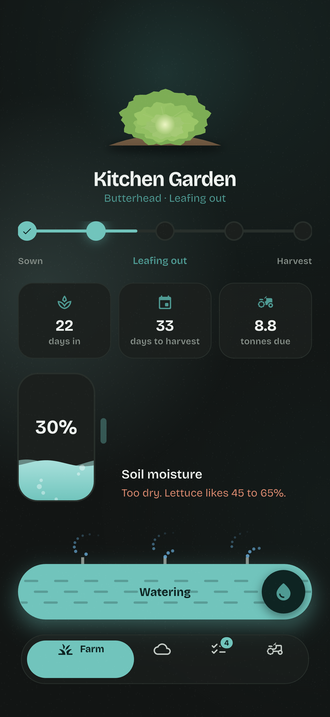
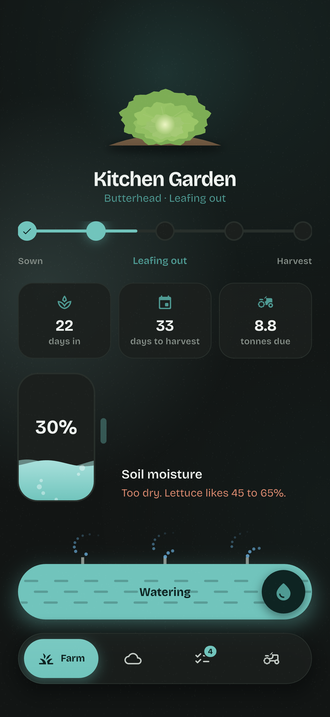
Tab bar: centred content, pill sized to its label, fade behind
The icon and label now sit in the middle of the pill, the pill is as
wide as its label needs, the picked icon springs, the bar is more solid
glass with a shadow, and lists fade out before they reach it.

diff --git a/lib/widgets/tab_bar.dart b/lib/widgets/tab_bar.dart
@@ -1,3 +1,4 @@
+import 'dart:math' as math;
 import 'dart:ui' as ui;
 
 import 'package:flutter/material.dart';
@@ -15,7 +16,9 @@ class TabItem {
 }
 
 /// A floating frosted bar. A pill of accent slides under the current tab,
-/// stretching as it travels.
+/// sized to fit its icon and label and stretching as it travels; the other
+/// tabs share what is left. Content scrolling underneath fades out before
+/// it reaches the bar.
 class GlassTabBar extends StatelessWidget {
   const GlassTabBar({
     super.key,
@@ -28,79 +31,104 @@ class GlassTabBar extends StatelessWidget {
   final int index;
   final ValueChanged<int> onTap;
 
+  static const _height = 68.0, _inset = 7.0, _icon = 23.0, _gap = 8.0, _pad = 18.0;
+
   @override
   Widget build(BuildContext context) {
     final p = context.palette;
-    return Padding(
-      padding: EdgeInsets.fromLTRB(
-        28,
-        0,
-        28,
-        MediaQuery.paddingOf(context).bottom + 10,
+    final label = Theme.of(context).textTheme.labelMedium!.copyWith(fontWeight: FontWeight.w700);
+    final scaler = MediaQuery.textScalerOf(context);
+    final bottom = MediaQuery.paddingOf(context).bottom;
+    // How wide each tab's pill needs to be to show its icon and label.
+    final needs = [
+      for (final item in items)
+        _icon + _gap + _pad * 2 + (TextPainter(text: TextSpan(text: item.label, style: label), textDirection: TextDirection.ltr, textScaler: scaler, maxLines: 1)..layout()).width,
+    ];
+
+    return DecoratedBox(
+      // Lists fade into the paper before they reach the bar.
+      decoration: BoxDecoration(
+        gradient: LinearGradient(
+          begin: Alignment.topCenter,
+          end: Alignment.bottomCenter,
+          colors: [p.paper.withValues(alpha: 0), p.paper.withValues(alpha: 0.85), p.paper],
+          stops: const [0, 0.45, 1],
+        ),
       ),
-      child: ClipRRect(
-        borderRadius: BorderRadius.circular(32),
-        child: BackdropFilter(
-          filter: ui.ImageFilter.blur(sigmaX: 22, sigmaY: 22),
-          child: Container(
-            height: 66,
-            decoration: BoxDecoration(
-              color: p.card.withValues(alpha: 0.72),
-              borderRadius: BorderRadius.circular(32),
-              border: Border.all(color: p.line),
-            ),
-            padding: const EdgeInsets.all(7),
-            child: LayoutBuilder(
-              builder: (context, box) => TweenAnimationBuilder<double>(
-                tween: Tween(end: index.toDouble()),
-                duration: Motion.medium,
-                curve: Motion.spring,
-                builder: (_, v, _) {
-                  // The active tab widens to fit its label, the rest share
-                  // what is left; widths follow the pill as it slides.
-                  final weights = [for (var i = 0; i < items.length; i++) 1 + 0.9 * (1 - (v - i).abs()).clamp(0.0, 1.0)];
-                  final sum = weights.fold(0.0, (a, b) => a + b);
-                  final widths = [for (final x in weights) box.maxWidth * x / sum];
-                  final k = v.floor().clamp(0, items.length - 1);
-                  final f = v - k;
-                  var left = 0.0;
-                  for (var i = 0; i < k; i++) {
-                    left += widths[i];
-                  }
-                  left += f * widths[k];
-                  final width = k + 1 < items.length ? widths[k] + (widths[k + 1] - widths[k]) * f : widths[k];
-                  // Stretch while moving, by how far from a whole tab it is.
-                  final stretch = 1 - ((v - v.round()).abs() * 2 - 1).abs();
-                  return Stack(
-                    children: [
-                      Positioned(
-                        left: left - stretch * 8,
-                        width: width + stretch * 16,
-                        top: 0,
-                        bottom: 0,
-                        child: Container(
-                          decoration: BoxDecoration(
-                            color: p.accent,
-                            borderRadius: BorderRadius.circular(26),
-                          ),
-                        ),
-                      ),
-                      Row(
+      child: Padding(
+        padding: EdgeInsets.fromLTRB(24, 22, 24, bottom + 10),
+        child: DecoratedBox(
+          decoration: BoxDecoration(
+            borderRadius: BorderRadius.circular(_height / 2),
+            boxShadow: [BoxShadow(color: p.shadow, blurRadius: 24, offset: const Offset(0, 10))],
+          ),
+          child: ClipRRect(
+            borderRadius: BorderRadius.circular(_height / 2),
+            child: BackdropFilter(
+              filter: ui.ImageFilter.blur(sigmaX: 24, sigmaY: 24),
+              child: Container(
+                height: _height,
+                padding: const EdgeInsets.all(_inset),
+                decoration: BoxDecoration(
+                  color: p.card.withValues(alpha: 0.88),
+                  borderRadius: BorderRadius.circular(_height / 2),
+                  border: Border.all(color: p.line),
+                ),
+                child: LayoutBuilder(
+                  builder: (context, box) => TweenAnimationBuilder<double>(
+                    tween: Tween(end: index.toDouble()),
+                    duration: Motion.medium,
+                    curve: Motion.spring,
+                    builder: (_, v, _) {
+                      final n = items.length;
+                      final w = box.maxWidth;
+                      // How close each tab is to being the current one (they
+                      // sum to one while the pill slides between two).
+                      final near = [for (var i = 0; i < n; i++) (1 - (v - i).abs()).clamp(0.0, 1.0)];
+                      final extra = [for (var i = 0; i < n; i++) math.max(0.0, (math.min(needs[i], w * 0.6) - w / n) * n / (n - 1))];
+                      final grow = [for (var i = 0; i < n; i++) extra[i] * near[i]];
+                      final base = (w - grow.fold(0.0, (a, b) => a + b)) / n;
+                      final widths = [for (var i = 0; i < n; i++) base + grow[i]];
+                      final k = v.floor().clamp(0, n - 1);
+                      final f = (v - k).clamp(0.0, 1.0);
+                      var left = 0.0;
+                      for (var i = 0; i < k; i++) {
+                        left += widths[i];
+                      }
+                      left += f * widths[k];
+                      final width = k + 1 < n ? widths[k] + (widths[k + 1] - widths[k]) * f : widths[k];
+                      // Stretch while moving, by how far from a whole tab it is.
+                      final stretch = 1 - ((v - v.round()).abs() * 2 - 1).abs();
+                      return Stack(
+                        fit: StackFit.expand,
                         children: [
-                          for (var i = 0; i < items.length; i++)
-                            SizedBox(
-                              width: widths[i],
-                              child: _Tab(
-                                item: items[i],
-                                active: i == index,
-                                onTap: () => onTap(i),
+                          Positioned(
+                            left: left - stretch * 6,
+                            width: width + stretch * 12,
+                            top: 0,
+                            bottom: 0,
+                            child: DecoratedBox(
+                              decoration: BoxDecoration(
+                                borderRadius: BorderRadius.circular(_height / 2),
+                                gradient: LinearGradient(begin: Alignment.topCenter, end: Alignment.bottomCenter, colors: [Color.lerp(p.accent, p.accentGlow, 0.18)!, p.accent]),
+                                boxShadow: [BoxShadow(color: p.accent.withValues(alpha: 0.35), blurRadius: 14, offset: const Offset(0, 5))],
                               ),
                             ),
+                          ),
+                          Row(
+                            children: [
+                              for (var i = 0; i < n; i++)
+                                SizedBox(
+                                  width: widths[i],
+                                  child: _Tab(item: items[i], active: i == index, label: label, onTap: () => onTap(i)),
+                                ),
+                            ],
+                          ),
                         ],
-                      ),
-                    ],
-                  );
-                },
+                      );
+                    },
+                  ),
+                ),
               ),
             ),
           ),
@@ -111,21 +139,17 @@ class GlassTabBar extends StatelessWidget {
 }
 
 class _Tab extends StatelessWidget {
-  const _Tab({required this.item, required this.active, required this.onTap});
+  const _Tab({required this.item, required this.active, required this.label, required this.onTap});
 
   final TabItem item;
   final bool active;
+  final TextStyle label;
   final VoidCallback onTap;
 
   @override
   Widget build(BuildContext context) {
     final p = context.palette;
     final color = active ? p.onAccent : p.inkSoft;
-    final icon = Icon(
-      active ? item.activeIcon : item.icon,
-      color: color,
-      size: 23,
-    );
     return Semantics(
       button: true,
       selected: active,
@@ -137,70 +161,65 @@ class _Tab extends StatelessWidget {
           HapticFeedback.selectionClick();
           onTap();
         },
-        child: Row(
-          mainAxisAlignment: MainAxisAlignment.center,
-          children: [
-            Stack(
-              clipBehavior: Clip.none,
-              children: [
-                icon,
-                if (item.badge > 0)
-                  Positioned(
-                    right: -9,
-                    top: -6,
-                    child: TweenAnimationBuilder<double>(
-                      key: ValueKey(item.badge),
-                      tween: Tween(begin: 0.4, end: 1),
-                      duration: Motion.medium,
-                      curve: Motion.spring,
-                      builder: (_, s, child) =>
-                          Transform.scale(scale: s, child: child),
-                      child: Container(
-                        constraints: const BoxConstraints(minWidth: 18),
-                        height: 18,
-                        padding: const EdgeInsets.symmetric(horizontal: 5),
-                        decoration: BoxDecoration(
-                          color: active ? p.onAccent : p.accent,
-                          borderRadius: BorderRadius.circular(9),
-                          border: Border.all(color: p.card, width: 1.5),
-                        ),
-                        alignment: Alignment.center,
-                        child: Text(
-                          '${item.badge}',
-                          style: TextStyle(
-                            fontFamily: 'Bricolage',
-                            fontSize: 10.5,
-                            fontWeight: FontWeight.w800,
-                            color: active ? p.accentDeep : p.onAccent,
+        child: Center(
+          child: Row(
+            mainAxisSize: MainAxisSize.min,
+            children: [
+              // The icon gives a small spring when its tab is picked.
+              TweenAnimationBuilder<double>(
+                key: ValueKey(active),
+                tween: Tween(begin: active ? 0.7 : 1, end: 1),
+                duration: Motion.long,
+                curve: Curves.elasticOut,
+                builder: (_, s, child) => Transform.scale(scale: s, child: child),
+                child: Stack(
+                  clipBehavior: Clip.none,
+                  children: [
+                    Icon(active ? item.activeIcon : item.icon, color: color, size: GlassTabBar._icon),
+                    if (item.badge > 0)
+                      Positioned(
+                        right: -9,
+                        top: -7,
+                        child: TweenAnimationBuilder<double>(
+                          key: ValueKey(item.badge),
+                          tween: Tween(begin: 0.4, end: 1),
+                          duration: Motion.medium,
+                          curve: Motion.spring,
+                          builder: (_, s, child) => Transform.scale(scale: s, child: child),
+                          child: Container(
+                            constraints: const BoxConstraints(minWidth: 18),
+                            height: 18,
+                            padding: const EdgeInsets.symmetric(horizontal: 5),
+                            decoration: BoxDecoration(
+                              color: active ? p.onAccent : p.accent,
+                              borderRadius: BorderRadius.circular(9),
+                              border: Border.all(color: active ? p.accent : p.card, width: 1.5),
+                            ),
+                            alignment: Alignment.center,
+                            child: Text(
+                              '${item.badge}',
+                              style: TextStyle(fontFamily: 'Bricolage', fontSize: 10.5, fontWeight: FontWeight.w800, color: active ? p.accentDeep : p.onAccent),
+                            ),
                           ),
                         ),
                       ),
-                    ),
-                  ),
-              ],
-            ),
-            Flexible(
-              child: AnimatedSize(
-                duration: Motion.medium,
-                curve: Motion.settle,
-                child: active
-                    ? Padding(
-                        padding: const EdgeInsets.only(left: 8),
-                        child: Text(
-                          item.label,
-                          maxLines: 1,
-                          overflow: TextOverflow.ellipsis,
-                          style: Theme.of(context).textTheme.labelMedium!
-                              .copyWith(
-                                color: color,
-                                fontWeight: FontWeight.w700,
-                              ),
-                        ),
-                      )
-                    : const SizedBox.shrink(),
+                  ],
+                ),
               ),
-            ),
-          ],
+              Flexible(
+                child: AnimatedSize(
+                  duration: Motion.medium,
+                  curve: Motion.settle,
+                  child: active
+                      ? Padding(
+                          padding: const EdgeInsets.only(left: GlassTabBar._gap),
+                          child: Text(item.label, maxLines: 1, overflow: TextOverflow.clip, softWrap: false, style: label.copyWith(color: color)),
+                        )
+                      : const SizedBox.shrink(),
+                ),
+              ),
+            ],
+          ),
         ),
       ),
     );
